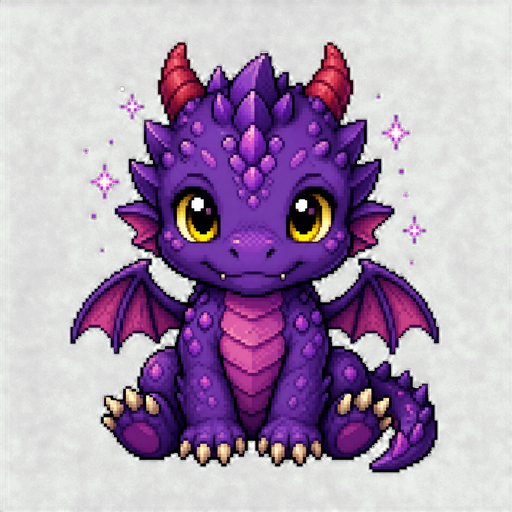
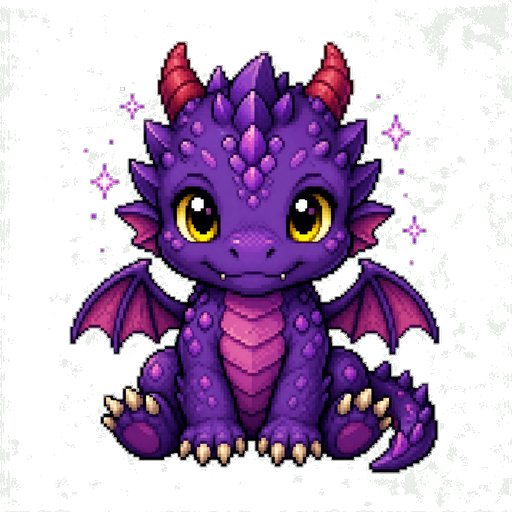
Leaderboard: light podium for the top three, list below
- Podium (2nd · 1st · 3rd) with pet sprites; the rest as a list; your own row
  highlighted and pinned to the bottom once it is past rank 8.
- Light colours, 44px controls, aria-pressed on boards and filters.
- Baby dragon and wolf PNGs: removed the baked dark haze that showed on white.

diff --git a/src/pages/LeaderboardPage.jsx b/src/pages/LeaderboardPage.jsx
@@ -4,12 +4,21 @@ import { motion } from 'framer-motion'
 import { ArrowLeft, Flame, Trophy, RefreshCw } from 'lucide-react'
 import { supabase } from '../lib/supabase'
 import { useGame } from '../context/GameContext'
-import { PETS } from '../data/pets'
 import { getLevelMeta } from '../data/progression'
-import { DIFFICULTY_COLORS } from '../data/difficulty'
+import { DIFFICULTY_TEXT } from '../data/difficulty'
 import CountUp from '../components/reactbits/CountUp'
-import ShinyText from '../components/reactbits/ShinyText'
-import StarBorder from '../components/reactbits/StarBorder'
+import PetSprite from '../components/PetSprite'
+
+/* Light palette — same values as apps/mobile/src/theme.ts. */
+const INK = '#102A43'
+const SOFT = '#3E5165'
+const MUTED = '#667085'
+const TEAL = '#3F8580'
+const TEAL_DEEP = '#2F6F6B'
+const TEAL_TINT = '#E4EFEE'
+const LINE = '#E1E7E3'
+const APRICOT = '#EBA66E'
+const APRICOT_INK = '#8A4B12'
 
 /* The two ranking modes. "Quests" additionally lets you rank by a single
    difficulty — the "most quests done per difficulty" board. */
@@ -19,23 +28,24 @@ const BOARDS = {
 }
 
 const QUEST_METRICS = [
-  { key: 'total_completed', label: 'All',    color: '#f5a31a' },
-  { key: 'easy_done',       label: 'Easy',   color: DIFFICULTY_COLORS.easy },
-  { key: 'medium_done',     label: 'Medium', color: DIFFICULTY_COLORS.medium },
-  { key: 'hard_done',       label: 'Hard',   color: DIFFICULTY_COLORS.hard },
-  { key: 'boss_done',       label: 'Boss',   color: DIFFICULTY_COLORS.boss },
+  { key: 'total_completed', label: 'All',    color: APRICOT_INK },
+  { key: 'easy_done',       label: 'Easy',   color: DIFFICULTY_TEXT.easy },
+  { key: 'medium_done',     label: 'Medium', color: DIFFICULTY_TEXT.medium },
+  { key: 'hard_done',       label: 'Hard',   color: DIFFICULTY_TEXT.hard },
+  { key: 'boss_done',       label: 'Boss',   color: '#5B4C9A' },
 ]
 
 const MEDALS = ['🥇', '🥈', '🥉']
+/* Your own row is pinned to the bottom once it would sit below this many rows. */
+const PIN_AFTER = 8
 
-function petEmoji(id) {
-  return PETS.find(p => p.id === id)?.emoji || '👤'
-}
+const chip = (on) => on
+  ? { background: TEAL_TINT, color: TEAL_DEEP, border: '1px solid #3F858055' }
+  : { background: '#FFFFFF', color: SOFT, border: `1px solid ${LINE}` }
 
 export default function LeaderboardPage() {
   const navigate = useNavigate()
   const { profile } = useGame()
-
   const [rows, setRows]       = useState([])
   const [loading, setLoading] = useState(true)
   const [error, setError]     = useState('')
@@ -49,6 +59,7 @@ export default function LeaderboardPage() {
     setRows(data || [])
     setLoading(false)
   }
+
   useEffect(() => { load() }, [])
 
   // Active sort metric: for the streak board it's the streak; for quests it's
@@ -62,42 +73,72 @@ export default function LeaderboardPage() {
     .filter(r => Number(r[metric]) > 0 || board === 'streak')
 
   const metricColor = board === 'streak'
-    ? '#fb923c'
-    : QUEST_METRICS.find(m => m.key === questMetric)?.color || '#f5a31a'
+    ? APRICOT_INK
+    : QUEST_METRICS.find(m => m.key === questMetric)?.color || APRICOT_INK
 
   const metricValue = (r) => Number(r[metric]) || 0
   const isMe = (r) => r.username === profile?.username
+  const myIndex = ranked.findIndex(isMe)
+
+  const podium = ranked.slice(0, 3)
+  const rest = ranked.slice(3)
+
+  const Value = ({ r, big }) => (
+    <span className={`font-extrabold tabular-nums inline-flex items-center gap-1 ${big ? 'text-xl' : 'text-lg'}`} style={{ color: metricColor }}>
+      {/* Keyed on the active board so switching boards replays the count. */}
+      <CountUp key={metric} to={metricValue(r)} duration={1.2} />
+      {board === 'streak' && <Flame size={big ? 18 : 15} />}
+    </span>
+  )
+
+  const Row = ({ r, i }) => (
+    <div className="flex items-center gap-3 px-4 py-2.5 rounded-2xl"
+      style={{ background: isMe(r) ? TEAL_TINT : '#FFFFFF', border: `1px solid ${isMe(r) ? '#3F858055' : LINE}` }}>
+      <span className="w-7 text-center font-extrabold flex-shrink-0" style={{ color: isMe(r) ? SOFT : MUTED }}>{i + 1}</span>
+      <PetSprite petId={r.pet_id} level={r.pet_level || 1} size={36} />
+      <div className="flex-1 min-w-0">
+        <p className="font-bold text-sm truncate" style={{ color: INK }}>
+          {r.username}
+          {isMe(r) && <span className="ml-2 text-xs px-1.5 py-0.5 rounded-full" style={{ background: '#FFFFFF', color: TEAL_DEEP }}>You</span>}
+        </p>
+        <p className="text-xs" style={{ color: isMe(r) ? SOFT : MUTED }}>
+          Lv {r.pet_level} {getLevelMeta(r.pet_level).name}
+          {board === 'streak' && <> · best {r.longest_streak}🔥</>}
+          {board === 'quests' && <> · {r.total_completed} total</>}
+        </p>
+      </div>
+      <Value r={r} />
+    </div>
+  )
 
   return (
-    <div className="min-h-screen" style={{ background: 'var(--bg-deep)' }}>
+    <div className="theme-light min-h-screen relative z-10 font-nunito">
       {/* Nav */}
       <motion.nav initial={{ y: -20, opacity: 0 }} animate={{ y: 0, opacity: 1 }}
-        className="relative z-20 flex items-center justify-between px-4 md:px-8 py-4"
-        style={{ borderBottom: '1px solid var(--card-border)', background: '#0d1120' }}>
-        <div className="flex items-center gap-3">
+        className="relative z-20 flex items-center justify-between gap-3 px-4 md:px-8 py-3"
+        style={{ borderBottom: `1px solid ${LINE}`, background: '#FFFFFF' }}>
+        <div className="flex items-center gap-3 min-w-0">
           <motion.button onClick={() => navigate('/dashboard')}
-            className="flex items-center gap-2 px-3 py-2 rounded-xl text-sm font-nunito font-semibold"
-            style={{ background: 'rgba(124,58,237,0.1)', border: '1px solid rgba(124,58,237,0.25)', color: '#a78bfa' }}
-            whileHover={{ background: 'rgba(124,58,237,0.2)' }} whileTap={{ scale: 0.95 }}>
+            className="min-h-[44px] flex items-center gap-2 px-3 rounded-xl text-sm font-semibold"
+            style={{ background: '#FFFFFF', border: `1px solid ${LINE}`, color: SOFT }}
+            whileHover={{ borderColor: TEAL }} whileTap={{ scale: 0.95 }}>
             <ArrowLeft size={15} /> Dashboard
           </motion.button>
-          <h1 className="font-cinzel font-black text-lg flex items-center gap-2"
-            style={{ color: '#ffd166', textShadow: '0 0 16px rgba(245,163,26,0.3)' }}>
-            <Trophy size={18} style={{ color: '#f5a31a' }} /> Leaderboard
+          <h1 className="font-extrabold text-lg flex items-center gap-2 truncate" style={{ color: INK }}>
+            <Trophy size={18} style={{ color: APRICOT }} /> Leaderboard
           </h1>
         </div>
-        <motion.button onClick={load}
-          className="flex items-center gap-2 px-3 py-2 rounded-xl text-sm font-nunito font-semibold"
-          style={{ background: 'rgba(245,163,26,0.1)', border: '1px solid rgba(245,163,26,0.25)', color: '#f5a31a' }}
+        <motion.button onClick={load} aria-label="Refresh"
+          className="w-11 h-11 flex items-center justify-center rounded-xl flex-shrink-0"
+          style={{ background: '#FFFFFF', border: `1px solid ${LINE}`, color: SOFT }}
           whileTap={{ scale: 0.9, rotate: 180 }}>
-          <RefreshCw size={14} />
+          <RefreshCw size={15} />
         </motion.button>
       </motion.nav>
 
-      <div className="relative z-10 max-w-3xl mx-auto px-4 py-6 space-y-5">
+      <div className="relative max-w-3xl mx-auto px-4 py-6 space-y-4">
         {error && (
-          <div className="p-4 rounded-xl text-sm font-nunito"
-            style={{ background: 'rgba(244,63,94,0.1)', border: '1px solid rgba(244,63,94,0.3)', color: '#fb7185' }}>
+          <div className="p-4 rounded-xl text-sm" style={{ background: '#FBE8E3', color: '#A3412A' }}>
             ⚠ {error}
           </div>
         )}
@@ -105,13 +146,8 @@ export default function LeaderboardPage() {
         {/* Board selector */}
         <div className="flex gap-2">
           {Object.entries(BOARDS).map(([key, b]) => (
-            <button key={key} onClick={() => setBoard(key)}
-              className="flex-1 py-2.5 rounded-xl text-sm font-nunito font-bold transition-all"
-              style={{
-                background: board === key ? 'rgba(245,163,26,0.18)' : 'rgba(19,19,58,0.5)',
-                color:      board === key ? '#f5a31a' : '#8080aa',
-                border:     `1px solid ${board === key ? 'rgba(245,163,26,0.45)' : 'rgba(124,58,237,0.15)'}`,
-              }}>
+            <button key={key} onClick={() => setBoard(key)} aria-pressed={board === key}
+              className="flex-1 min-h-[44px] rounded-xl text-sm font-bold" style={chip(board === key)}>
               {b.label}
             </button>
           ))}
@@ -121,13 +157,8 @@ export default function LeaderboardPage() {
         {board === 'quests' && (
           <div className="flex flex-wrap gap-2">
             {QUEST_METRICS.map(m => (
-              <button key={m.key} onClick={() => setQuestMetric(m.key)}
-                className="px-3 py-1.5 rounded-lg text-xs font-nunito font-bold transition-all"
-                style={{
-                  background: questMetric === m.key ? m.color + '22' : 'rgba(19,19,58,0.5)',
-                  color:      questMetric === m.key ? m.color : '#8080aa',
-                  border:     `1px solid ${questMetric === m.key ? m.color + '66' : 'rgba(124,58,237,0.15)'}`,
-                }}>
+              <button key={m.key} onClick={() => setQuestMetric(m.key)} aria-pressed={questMetric === m.key}
+                className="min-h-[44px] px-4 rounded-full text-sm font-bold" style={chip(questMetric === m.key)}>
                 {m.label}
               </button>
             ))}
@@ -140,89 +171,59 @@ export default function LeaderboardPage() {
               className="text-3xl">⚙</motion.div>
           </div>
         ) : ranked.length === 0 ? (
-          <div className="text-center py-16 font-nunito" style={{ color: 'var(--text-muted)' }}>
+          <div className="text-center py-16" style={{ color: SOFT }}>
             <div className="text-4xl mb-3">🏆</div>
             No ranked players yet — complete some quests to claim a spot!
           </div>
         ) : (
-          <div className="space-y-2">
-            {ranked.map((r, i) => {
-              const champion = i === 0
-
-              /* Row layout, shared by the plain rows and the champion's
-                 StarBorder-framed one. */
-              const rowClass = 'flex items-center gap-3 px-4 py-3 rounded-2xl'
-              const rowStyle = {
-                background: isMe(r) ? 'rgba(245,163,26,0.1)' : 'rgba(14,14,46,0.7)',
-                border: `1px solid ${isMe(r) ? 'rgba(245,163,26,0.4)' : i < 3 ? 'rgba(245,163,26,0.2)' : 'rgba(124,58,237,0.15)'}`,
-              }
-
-              const body = (
-                <>
-                  {/* Rank */}
-                  <div className="w-8 text-center font-cinzel font-black flex-shrink-0"
-                    style={{ color: i < 3 ? '#f5a31a' : '#8080aa', fontSize: i < 3 ? 20 : 14 }}>
-                    {i < 3 ? MEDALS[i] : i + 1}
-                  </div>
-
-                  {/* Pet + name */}
-                  <div className="text-2xl flex-shrink-0">{petEmoji(r.pet_id)}</div>
-                  <div className="flex-1 min-w-0">
-                    <p className="font-nunito font-bold text-sm truncate" style={{ color: '#e2e2ff' }}>
-                      {/* Podium names catch the light; everyone else stays flat,
-                          so the sheen reads as rank and not decoration. */}
-                      {i < 3
-                        ? <ShinyText text={r.username} speed={3} color="#e2e2ff" shineColor="#f5a31a" />
-                        : r.username}
-                      {isMe(r) && <span className="ml-2 text-xs px-1.5 py-0.5 rounded"
-                        style={{ background: 'rgba(245,163,26,0.15)', color: '#f5a31a' }}>You</span>}
+          <>
+            {/* Podium: 2nd · 1st · 3rd, first one raised */}
+            <div className="grid grid-cols-3 gap-2 sm:gap-3 items-end">
+              {[1, 0, 2].map(i => {
+                const r = podium[i]
+                if (!r) return <div key={i} />
+                const first = i === 0
+                return (
+                  <motion.div key={r.username + i}
+                    initial={{ opacity: 0, y: 12 }} animate={{ opacity: 1, y: 0 }} transition={{ delay: 0.05 * (i + 1) }}
+                    className="flex flex-col items-center text-center rounded-2xl px-2 min-w-0"
+                    style={{
+                      border: first ? `2px solid ${APRICOT}` : `1px solid ${isMe(r) ? '#3F858055' : LINE}`,
+                      background: isMe(r) ? TEAL_TINT : '#FFFFFF',
+                      paddingTop: first ? 20 : 12, paddingBottom: 12,
+                    }}>
+                    <span className={first ? 'text-2xl' : 'text-xl'} role="img" aria-label={`Rank ${i + 1}`}>{MEDALS[i]}</span>
+                    <PetSprite petId={r.pet_id} level={r.pet_level || 1} size={first ? 72 : 56} />
+                    <p className="font-bold text-sm truncate w-full mt-1" style={{ color: INK }}>
+                      {r.username}{isMe(r) && ' · You'}
                     </p>
-                    <p className="text-xs font-nunito" style={{ color: 'var(--text-muted)' }}>
-                      Lv {r.pet_level} {getLevelMeta(r.pet_level).name}
-                      {board === 'streak' && <> · best {r.longest_streak}🔥</>}
-                      {board === 'quests' && <> · {r.total_completed} total</>}
-                    </p>
-                  </div>
+                    <p className="text-xs" style={{ color: isMe(r) ? SOFT : MUTED }}>Lv {r.pet_level}</p>
+                    <Value r={r} big={first} />
+                  </motion.div>
+                )
+              })}
+            </div>
 
-                  {/* Metric value */}
-                  <div className="flex items-center gap-1.5 flex-shrink-0">
-                    {board === 'streak' && <Flame size={16} style={{ color: metricColor }} />}
-                    <span className="font-cinzel font-black text-xl tabular-nums" style={{ color: metricColor }}>
-                      {/* Keyed on the active board so switching boards replays
-                          the count instead of holding the previous total. */}
-                      <CountUp key={metric} to={metricValue(r)} duration={1.2} />
-                    </span>
-                  </div>
-                </>
-              )
-
-              return (
-                <motion.div
-                  key={r.username + i}
-                  layout
-                  initial={{ opacity: 0, y: 10 }}
-                  animate={{ opacity: 1, y: 0 }}
-                  transition={{ delay: Math.min(i * 0.03, 0.4) }}
-                >
-                  {champion ? (
-                    <StarBorder
-                      as="div"
-                      color="#f5a31a"
-                      speed="5s"
-                      thickness={2}
-                      style={{ display: 'block', width: '100%', borderRadius: 18 }}
-                      innerClassName={rowClass}
-                      innerStyle={rowStyle}
-                    >
-                      {body}
-                    </StarBorder>
-                  ) : (
-                    <div className={rowClass} style={rowStyle}>{body}</div>
-                  )}
+            {/* Everyone else */}
+            <div className="space-y-2">
+              {rest.map((r, j) => (
+                <motion.div key={r.username + j} layout
+                  initial={{ opacity: 0, y: 10 }} animate={{ opacity: 1, y: 0 }}
+                  transition={{ delay: Math.min(j * 0.03, 0.4) }}>
+                  <Row r={r} i={j + 3} />
                 </motion.div>
-              )
-            })}
-          </div>
+              ))}
+            </div>
+
+            {/* Far down the list: keep your own place in view. */}
+            {myIndex >= PIN_AFTER && (
+              <div className="sticky bottom-3 pt-2">
+                <div className="rounded-2xl" style={{ boxShadow: '0 6px 18px rgba(16,42,67,0.15)' }}>
+                  <Row r={ranked[myIndex]} i={myIndex} />
+                </div>
+              </div>
+            )}
+          </>
         )}
       </div>
     </div>

diff --git a/HANDOFF.md b/HANDOFF.md
@@ -52,7 +52,10 @@ Checked in the browser at 1440px and 375px: landing (no sideways scroll, nothing
 - **Mode select done** (approved B: three steps mode → difficulty → quests). Shared light `DIFFICULTY_TEXT` in `src/data/difficulty.js`.
 - **Loader done** (approved B: pet wakes up in its home, `inHome` prop on MascotWakeLoader). Tests updated (Skip 44px, size 96).
 - **Toasts + evolution done** (toasts B: navy pill bottom-centre; celebration A: white reveal card).
-- Next: **Leaderboard** (ask first: the paper excludes leaderboards).
+- **Leaderboard done** (Daniel keeps it despite the paper; approved B: podium + list, own row pinned past rank 8).
+- **Every signed-in page is now light.** Temporary mock preview harness removed.
+- Cleanup left (needs Daniel's OK): unrouted `PetSelectPage.jsx`, unused reactbits (StarBorder, ShinyText, SpotlightCard; GlareHover/Magnet only used by PetSelect),
+  `star-movement` keyframes in tailwind.config.js, `.acc-card` / `.pet-aura` CSS, and the dark `:root` tokens once nothing uses them.
   `PetSelectPage.jsx` is not routed anywhere (dead code; delete with Daniel's OK).
 
 ## Next task: restyle the signed-in website pages to match the app
